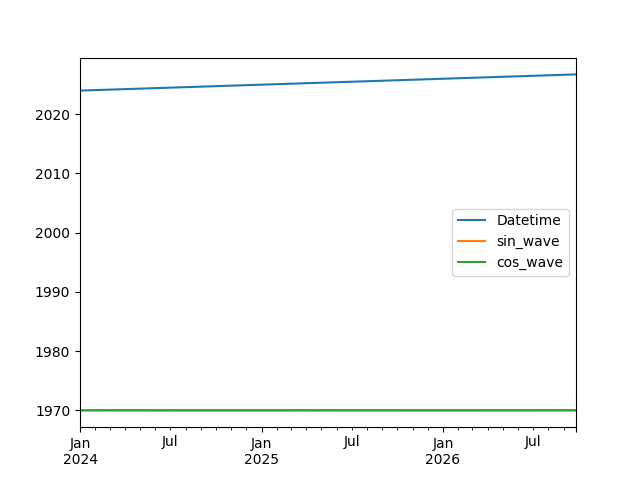
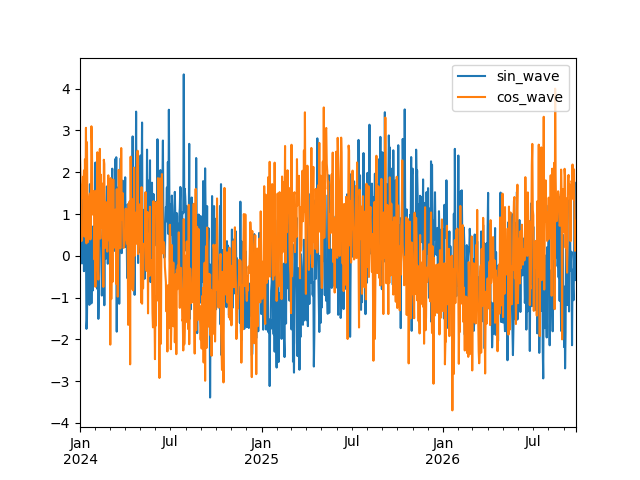
add pages

diff --git a/src/pages/page1.py b/src/pages/page1.py
@@ -1,4 +1,62 @@
+import pandas as pd
 import streamlit as st
 
 
-st.write("Page 1")
+st.title("Page 1")
+
+# check box
+st.header("st.checkbox")
+st.write("choose")
+ice = st.checkbox("Ice cream")
+cof = st.checkbox("Coffee")
+sof = st.checkbox("juice")
+if ice:
+    st.write("🍨")
+if cof:
+    st.write("☕")
+if sof:
+    st.write("🧃")
+
+# latex
+st.header("st.latex")
+st.latex(
+    r"""
+     a + ar + a r^2 + a r^3 + \cdots + a r^{n-1} =
+     \sum_{k=0}^{n-1} ar^k =
+     a \left(\frac{1-r^{n}}{1-r}\right)
+     """
+)
+
+# secrets
+st.header("st.secrets")
+st.text(
+    """
+    .streamlit/secrets.toml
+
+    OpenAI_key = "your OpenAI key"
+    whitelist = ["sally", "bob", "joe"]
+
+    [database]
+    user = "!!!USERNAME!!!"
+    password = "!!!PASSWORD!!!"
+    """
+)
+st.write(st.secrets["whitelist"])
+st.write(st.secrets["database"]["user"])
+st.write(st.secrets.database.password)
+
+
+# file_uploader(Max:200MB)
+st.header("st.file_uploader")
+
+st.subheader("Input CSV")
+uploaded_file = st.file_uploader("Choose a file")
+
+if uploaded_file is not None:
+    df = pd.read_csv(uploaded_file)
+    st.subheader("DataFrame")
+    st.write(df)
+    st.subheader("Descriptive Statistics")
+    st.write(df.describe())
+else:
+    st.info("☝ Upload a CSV file")

diff --git a/src/pages/page2.py b/src/pages/page2.py
@@ -1,3 +1,26 @@
 import streamlit as st
 
-st.write("Page 2")
+
+st.set_page_config(layout="wide")
+
+st.title("Page 2")
+
+with st.expander("about"):
+    st.write("this is test")
+    st.image("./data/dst/sample_wave.png")
+
+st.sidebar.header("input")
+user_name = st.sidebar.text_input("user name ")
+user_face = st.sidebar.selectbox("choose ", ["", "🥶", "😶🌫", "😱", "🪦"])
+
+col1, col2, col3 = st.columns(3)
+with col1:
+    if user_name != "":
+        st.write(f"Hello {user_name}!")
+    else:
+        st.write("<== Please enter")
+with col2:
+    if user_face != "":
+        st.write(f"{user_face} <- 🦈")
+with col3:
+    st.image("./data/dst/sample_wave.png")

diff --git a/src/main.py b/src/main.py
@@ -65,24 +65,4 @@ st.write("You're selected: ", start_time)
 # Map
 st.map()
 
-# check box
-st.header("st.checkbox")
-st.write("choose")
-ice = st.checkbox("Ice cream")
-cof = st.checkbox("Coffee")
-sof = st.checkbox("juice")
-if ice:
-    st.write("🍨")
-if cof:
-    st.write("☕")
-if sof:
-    st.write("🧃")
-
-st.header("st.latex")
-st.latex(
-    r"""
-     a + ar + a r^2 + a r^3 + \cdots + a r^{n-1} =
-     \sum_{k=0}^{n-1} ar^k =
-     a \left(\frac{1-r^{n}}{1-r}\right)
-     """
-)
+st.write("Continued on next page")

diff --git a/src/pages/page4.py b/src/pages/page4.py
@@ -1,0 +1,12 @@
+import streamlit as st
+
+
+st.title("Page4")
+
+st.header("Example of object notation")
+
+form = st.form("my_form_2")
+selected_val = form.slider("Select a value")
+form.form_submit_button("Submit")
+
+st.write("Selected value: ", selected_val)

diff --git a/src/pages/page3.py b/src/pages/page3.py
@@ -1,0 +1,16 @@
+import time
+
+import streamlit as st
+
+
+st.title("Page3")
+
+st.header("st.progress")
+
+my_bar = st.progress(0)
+
+for percent_complete in range(100):
+    time.sleep(0.05)
+    my_bar.progress(percent_complete + 1)
+
+st.balloons()

diff --git a/src/create_sample_df.py b/src/create_sample_df.py
@@ -40,6 +40,7 @@ print(df.head())
 os.makedirs("./data/dst/", exist_ok=True)
 df.to_csv("data/dst/sample_wave.csv")
 
+df.drop("Datetime", axis=1, inplace=True)
 # plot, save png
 fig = plt.figure()
 ax = fig.add_subplot(1, 1, 1)
